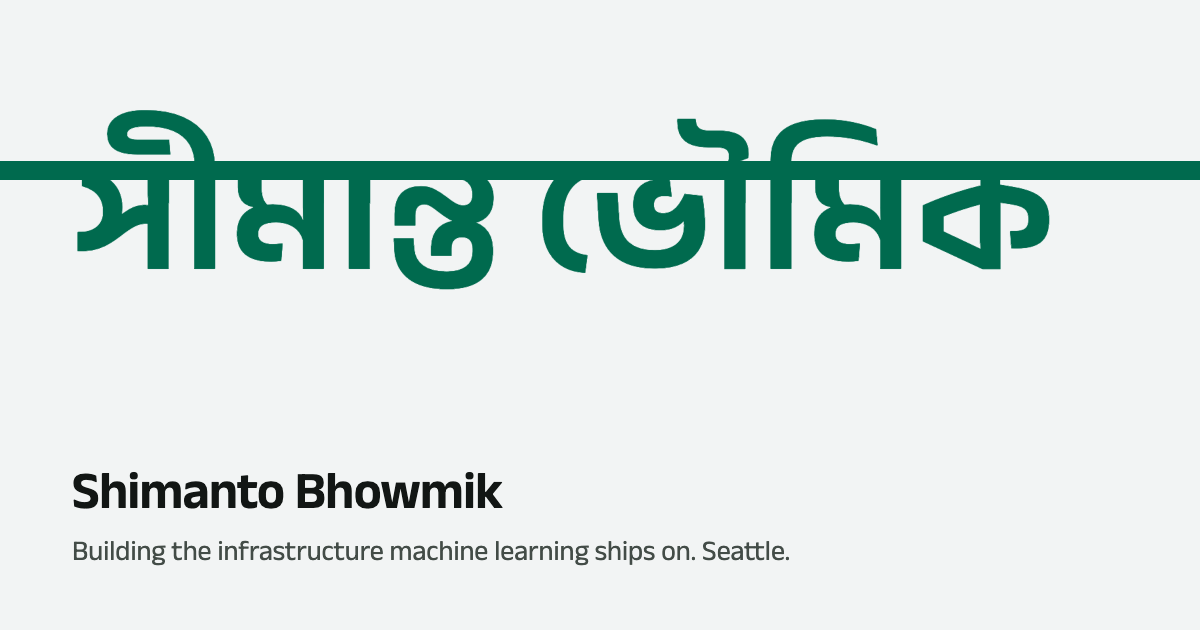
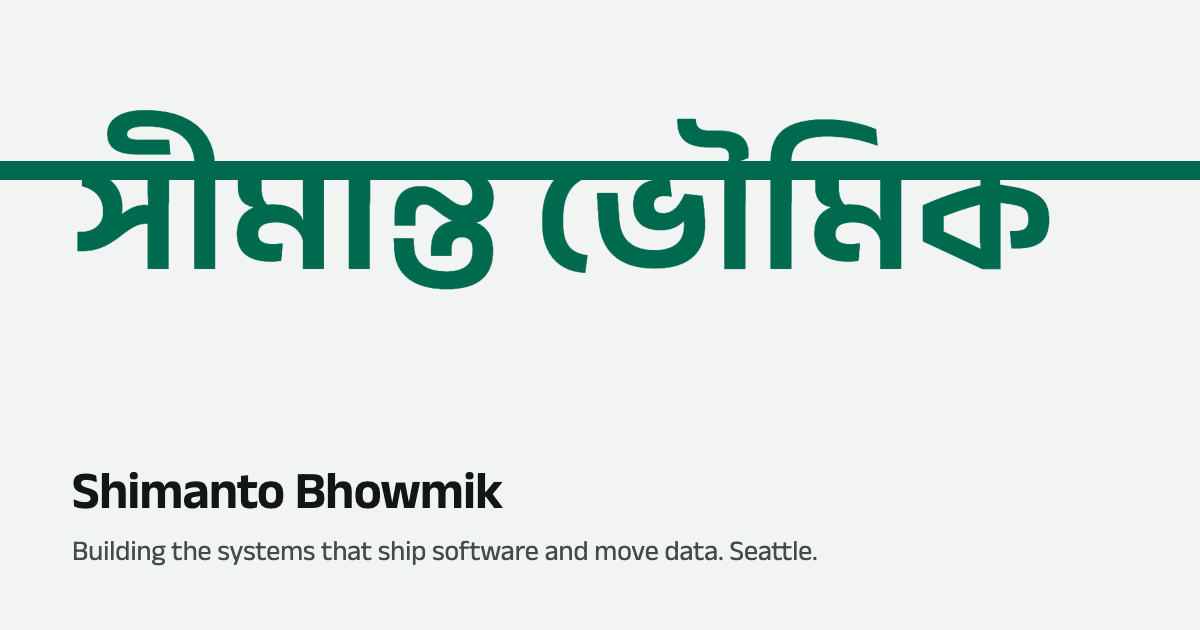
Make the hero statement match the actual work
"I build the infrastructure machine learning ships on" overstated the
ML focus and left out the current role. The thread through the work is
getting software and data where they need to go: deployment and live
video streaming for the security cameras in AWS data centers, the model
release pipeline and Alexa+ experiment routing at Amazon AGI, CRM data
sync at FinPilot and SEC filings ingestion at Sage AI.

- Statement: "I build the systems that ship software and move data."
- Lede leads with AWS Security, then Amazon AGI.
- The AWS entry in Work now describes the camera software and live
  video work instead of a bare "AWS Security".
- Meta description, link preview image, PRODUCT.md positioning,
  DESIGN.md and design.json updated to the new copy.
- Statement measure widened to 30ch so it sets in two lines; the lede
  balances its lines.

Changed region(s): [[0.185, 0.8444, 0.6783, 0.9048]]

diff --git a/src/data/profile.ts b/src/data/profile.ts
@@ -48,10 +48,10 @@ export const person = {
   nameBn: 'সীমান্ত ভৌমিক',
   location: 'Seattle',
   email: 'bhowmikshimanto@gmail.com',
-  statement: 'I build the infrastructure machine learning ships on.',
-  lede: 'Experimentation platforms, model release pipelines and LLM evaluation, from Amazon AGI and Stanford AI Lab to security at AWS today.',
+  statement: 'I build the systems that ship software and move data.',
+  lede: 'At AWS Security, that’s the software on the cameras in AWS data centers and the live video they stream. Before that: Alexa+ experimentation and model releases at Amazon AGI.',
   description:
-    'Shimanto Bhowmik builds the infrastructure machine learning ships on: experimentation platforms, release pipelines and model evaluation. Seattle.',
+    'Shimanto Bhowmik builds the systems that ship software and move data: camera software and live video for AWS data center security, and Alexa+ experimentation and model releases at Amazon AGI. Seattle.',
 };
 
 export const links = {
@@ -95,7 +95,9 @@ export const work: Place[] = [
     stints: [
       {
         years: '2026 – now',
-        focus: 'AWS Security',
+        focus: 'Data center security cameras',
+        detail:
+          'Deploying the software that runs on the security cameras in AWS data centers, and streaming their video live.',
         results: [],
       },
     ],

diff --git a/scripts/og.html b/scripts/og.html
@@ -65,6 +65,6 @@
   <body>
     <div class="name">সীমান্ত ভৌমিক</div>
     <div class="en">Shimanto Bhowmik</div>
-    <div class="line">Building the infrastructure machine learning ships on. Seattle.</div>
+    <div class="line">Building the systems that ship software and move data. Seattle.</div>
   </body>
 </html>

diff --git a/DESIGN.md b/DESIGN.md
@@ -210,10 +210,10 @@ Cool paper, green-tinted near-black ink in three strengths, and one bottle green
 **Character:** One superfamily in two scripts. The Bangla is green and structural, large in section heads and small as the signature beside the name; the Latin is semibold for names and the one hero statement and regular for prose, so beyond that statement the line does the shouting.
 
 ### Hierarchy
-- **Statement** (Latin 600, `clamp(2.5rem, min(5.4vw, 8.6vh), 5.5rem)`, line-height 1.02, -0.025em, max 19ch, balanced): the hero's one sentence of what he does, Ink. The largest type on the page; the vh term keeps the first screen whole on short laptops.
+- **Statement** (Latin 600, `clamp(2.5rem, min(5.4vw, 8.6vh), 5.5rem)`, line-height 1.02, -0.025em, max 30ch, balanced): the hero's one sentence of what he does, Ink. The largest type on the page; the vh term keeps the first screen whole on short laptops.
 - **Headline** (Bangla 600, `--sh-size`, line-height 1): the Bangla word of each section head, green, in the rail. Sized from the rail so the widest word (যোগাযোগ, 4.2em) always fits; on narrow screens `clamp(2.5rem, 10vw, 3.75rem)`.
 - **Headline Latin** (600, sized from the content column, line-height 1.1, -0.02em): the contact email address only, sized so it never breaks.
-- **Lede** (400, fluid 1.25-1.75rem, line-height 1.35, max 62ch, pretty wrap): the hero's supporting sentence under the statement, Ink Two.
+- **Lede** (400, fluid 1.25-1.75rem, line-height 1.35, max 62ch, balanced): the hero's supporting sentence under the statement, Ink Two.
 - **Name** (Latin 650, 1.25rem, line-height 1.2, -0.005em): the h1 in the hero bar, Ink.
 - **Signature** (Bangla 600, 1.375rem): the Bangla name set beside the h1 on its baseline, 14px after it, Bottle Green.
 - **Title** (600, fluid 1.375-1.75rem, line-height 1.2, -0.01em): place names, English section titles.

diff --git a/PRODUCT.md b/PRODUCT.md
@@ -20,7 +20,7 @@ Engineers, hiring managers, recruiters, and collaborators who arrive from a resu
 
 ## Positioning
 
-- Builds production systems at the seam of infrastructure and ML: experimentation platforms, model release pipelines, data sync engines, LLM evaluation.
+- Builds the systems that ship software and move data: deployment and live video streaming for the security cameras in AWS data centers (current), model release pipelines and Alexa+ experimentation routing (Amazon AGI), CRM data sync (FinPilot), SEC filings ingestion (Sage AI). LLM evaluation research at Stanford AI Lab sits alongside.
 - Track record: Amazon Web Services (AWS Security, current), FinPilot, Amazon AGI (Alexa+ experimentation, model release pipeline, LLM evaluation), Stanford AI Lab (Bengali LLM evaluation research), Sage AI, RIT research.
 - Published (first author): "Script Fragmentation and Format: What Drives the English-Bengali Performance Gap in Open LLMs?" (arXiv 2507.23248, v2). The resume still carries the earlier title "Evaluating LLMs' Multilingual Capabilities for Bengali"; the site follows arXiv.
 
